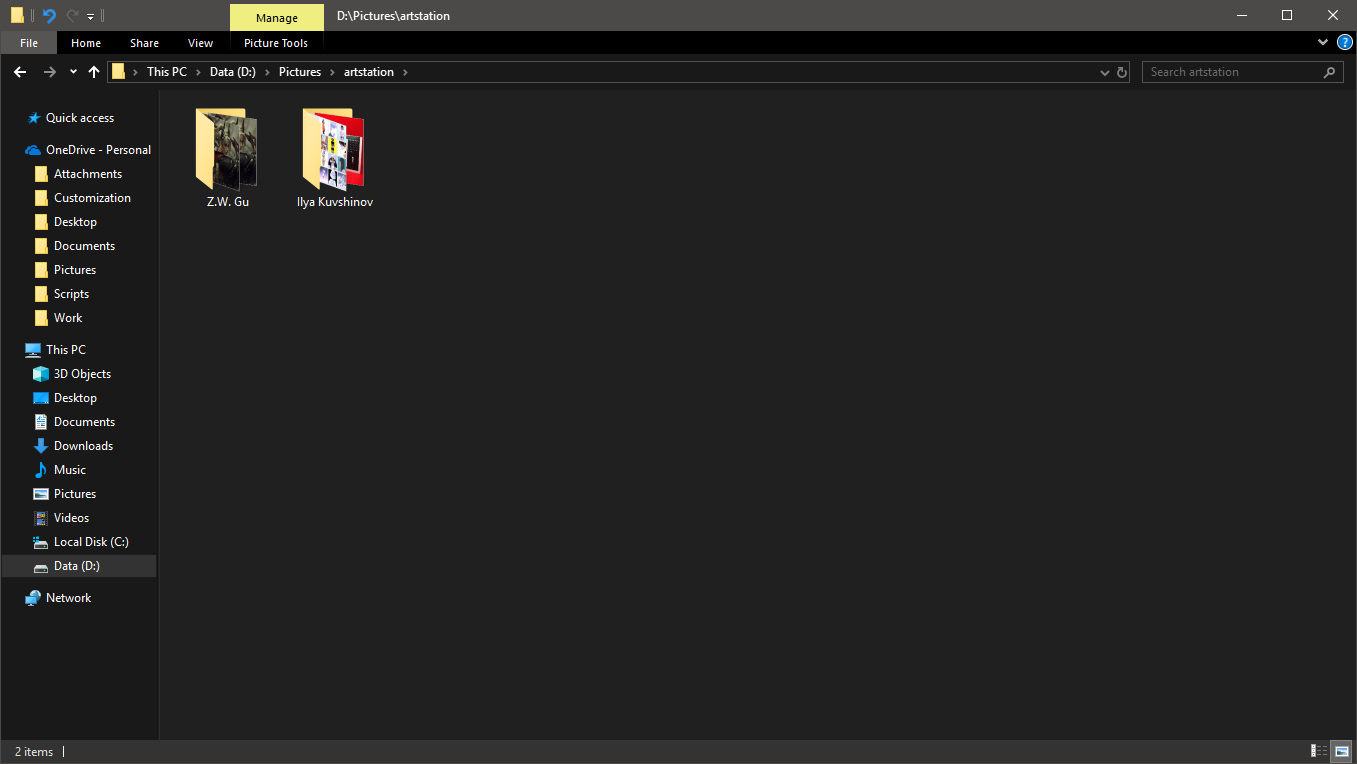
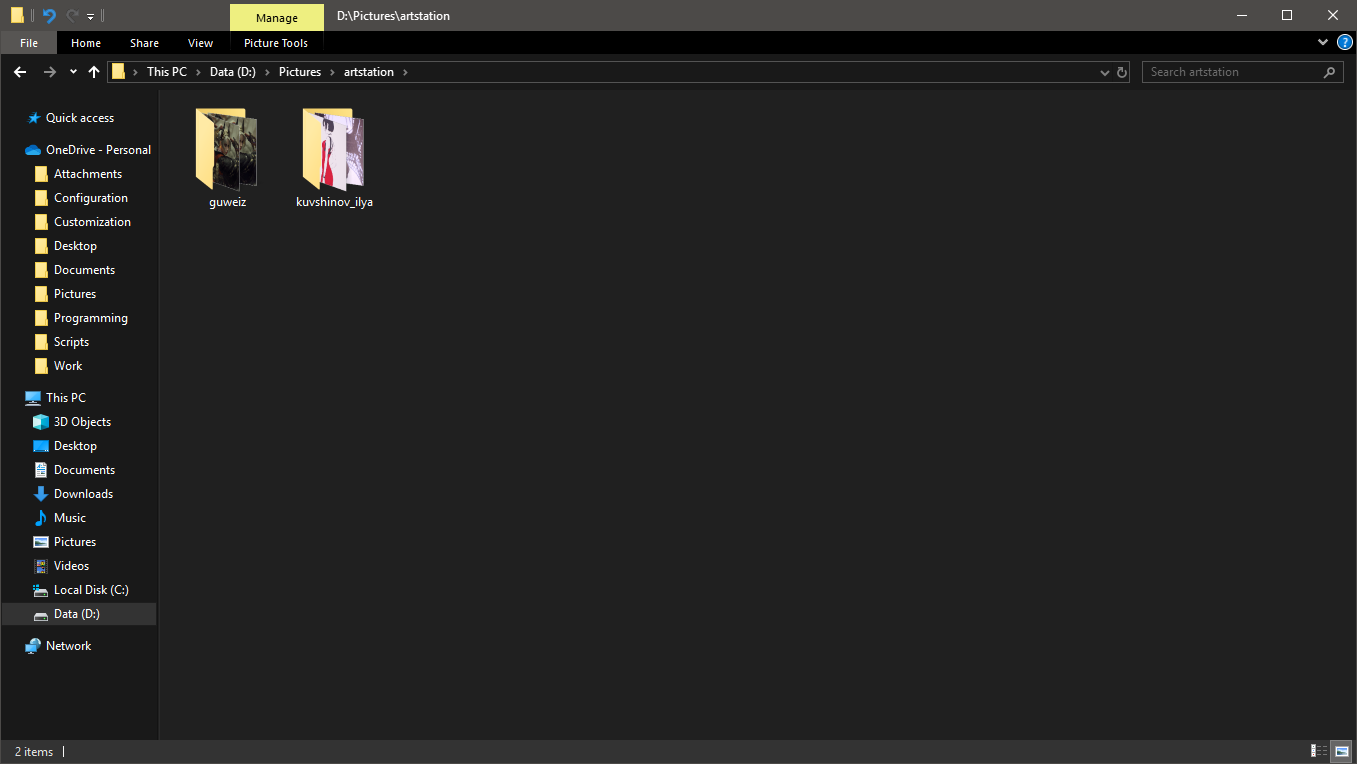
updated demo

diff --git a/README.md b/README.md
@@ -1,6 +1,6 @@
 # ArtStation Scraper
 
-This is my personal project created to download images from [ArtStation](https://www.artstation.com/) website. The program will download artworks from specified artists to specified download directory. In the download directory, the program will create and name subdirectories using the artist names, then save artworks to the corresponding subdirectories. For each artwork, the file modification time are set in order from newest to oldest so that you can sort files by modified date. Lastly, when running this program, it will check each artist directory to see if an update is needed such that only new uploads will be downloaded.
+This is my personal project created to download images from [ArtStation](https://www.artstation.com/) website. The program will download artworks from specified artists to specified download directory. In the download directory, the program will create and name subdirectories using the artist IDs, then save artworks to the corresponding subdirectories. For each artwork, the file modification time are set in order from newest to oldest so that you can sort files by modified date. Lastly, when running this program, it will check each artist directory to see if an update is needed such that only new uploads will be downloaded.
 
 ![alt text](doc/download.gif?raw=true "download")
 
@@ -78,7 +78,15 @@ python main.py -c all -t 24 -r
 
     - Solution 2: use normal URL and parse the plain HTML to get the information. The trick is to use the artist's website instead of the portfolio page, as the latter is generated dynamically from the AJAX request and thus contains no valuable content.
 
-2. update mechanism
+2. invalid folder name. I originally planned to name subdirectories using the artist names, but there are two problems with this approach: (1) if the artist names contain special characters, the program may not be able to find the folder path (depending on the OS. For example, in Windows, the trailing `.` character in folder name will be removed automatically); hence terminated with errors. (2) if the artists change their names, the program will leave multiple directories pointing to the same artists.
+
+    - Solution: use artist IDs as the folder names
+
+3. file duplicate issue. In ArtStation, artists can name their artworks with identical file names, which causes the program to overwrite downloaded files.
+
+    - Solution: append artwork ID to each file name
+
+4. update mechanism
 
     - Attempt: download artworks from newest to oldest until an existing file is found on the disk. This does not work well with the multi-threading implementation, as it makes the program a lot more complicated in order to deal with thread stopping condition
 
